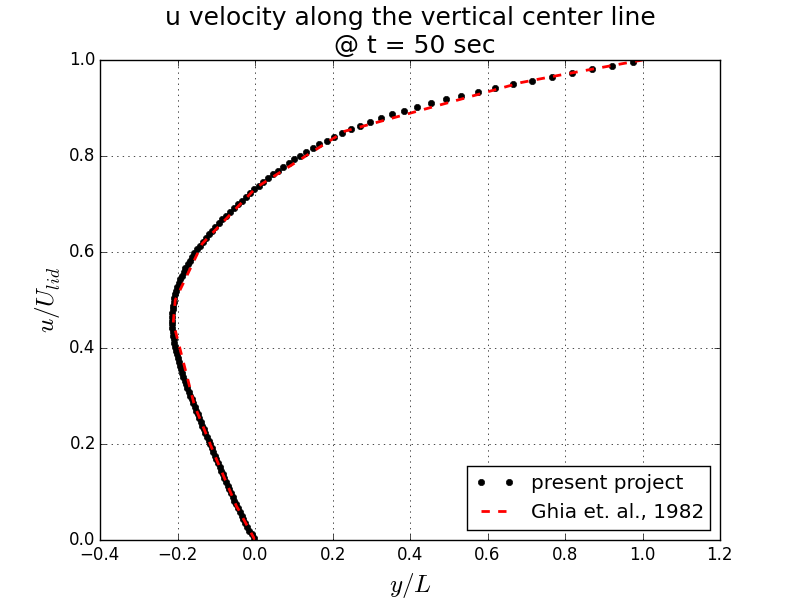
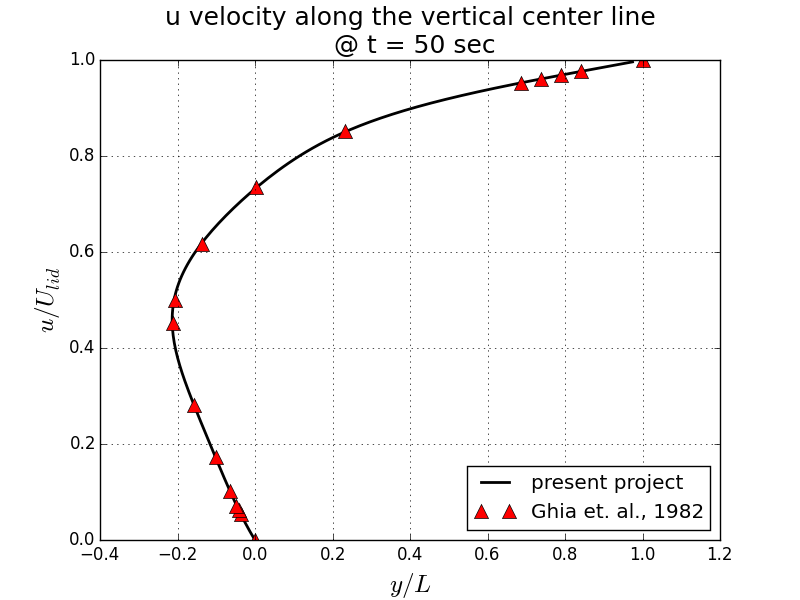
add one more figure for lid-driven test

diff --git a/TestCases/LidDriven/readData.py b/TestCases/LidDriven/readData.py
@@ -56,6 +56,13 @@ uGhia = numpy.array([0, -0.03717, -0.04192, -0.04775, -0.06434, -0.10150,
                      -0.15662, -0.21090, -0.20581, -0.13641, 0.00332, 0.23151, 
                      0.68717, 0.73722, 0.78871, 0.84123, 1])
 
+xGhia = numpy.array([0, 0.0625, 0.0703, 0.0781, 0.0938, 0.1563, 
+                     0.2266, 0.2344, 0.5, 0.8047, 0.8594, 0.9063, 
+                     0.9453, 0.9531, 0.9609, 0.9688, 1])
+vGhia = numpy.array([0, 0.09233, 0.10091, 0.10890, 0.12317, 0.16077, 
+                     0.17507, 0.17527, 0.05454, -0.24533, -0.22445, -0.16914, 
+                     -0.10313, -0.08864, -0.07391, -0.05906, 0])
+
 
 pyplot.figure()
 pyplot.title("Streamlines @ t = 50 sec", fontsize=18)
@@ -96,12 +103,22 @@ pyplot.title("u velocity along the vertical center line" +
              "\n @ t = 50 sec", fontsize=18)
 pyplot.xlabel(r"$y / L$", fontsize=18)
 pyplot.ylabel(r"$u / U_{lid}$", fontsize=18)
-pyplot.plot(u[1:-1, Nx/2+1], Yu[1:-1, Nx/2+1], 'k.', 
-        markersize=10, label="present project")
-pyplot.plot(uGhia, yGhia, 'r--', lw=2, label="Ghia et. al., 1982")
+pyplot.plot(u[1:-1, Nx/2+1], Yu[1:-1, Nx/2+1], 'k-', lw=2, label="present project")
+pyplot.plot(uGhia, yGhia, 'r^', markersize=10, label="Ghia et. al., 1982")
 pyplot.grid(True)
 pyplot.legend(loc=0)
 pyplot.savefig("Lid_CenterUvelocity.png", format="png")
+
+pyplot.figure()
+pyplot.title("v velocity along the horizontal center line" +
+             "\n @ t = 50 sec", fontsize=18)
+pyplot.xlabel(r"$x / L$", fontsize=18)
+pyplot.ylabel(r"$v / U_{lid}$", fontsize=18)
+pyplot.plot(Xv[Ny/2+1, 1:-1], v[Ny/2+1, 1:-1], 'k-', lw=2, label="present project")
+pyplot.plot(xGhia, vGhia, 'r^', lw=2, markersize=10, label="Ghia et. al., 1982")
+pyplot.grid(True)
+pyplot.legend(loc=0)
+pyplot.savefig("Lid_CenterVvelocity.png", format="png")
 
 
 pyplot.show()
